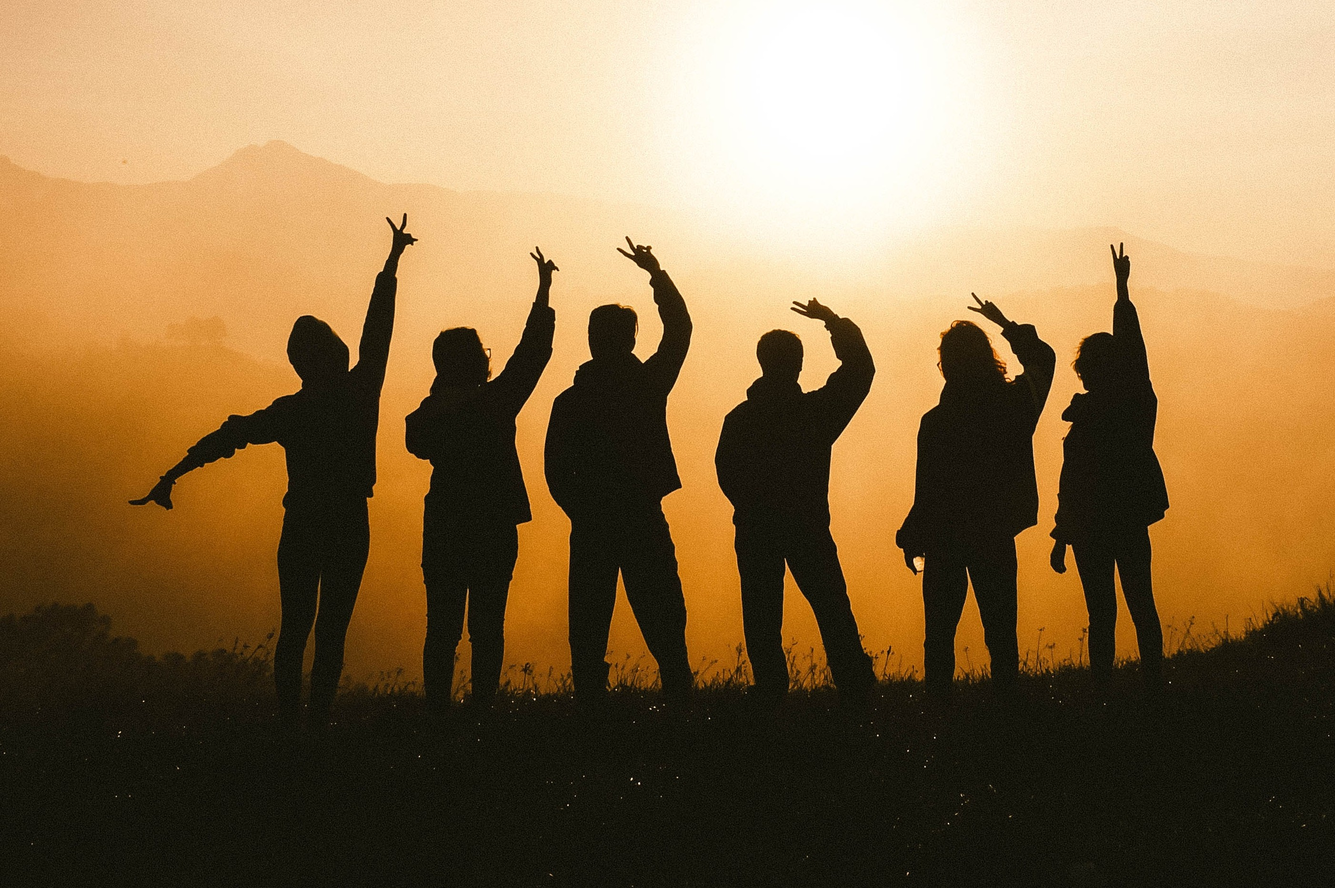
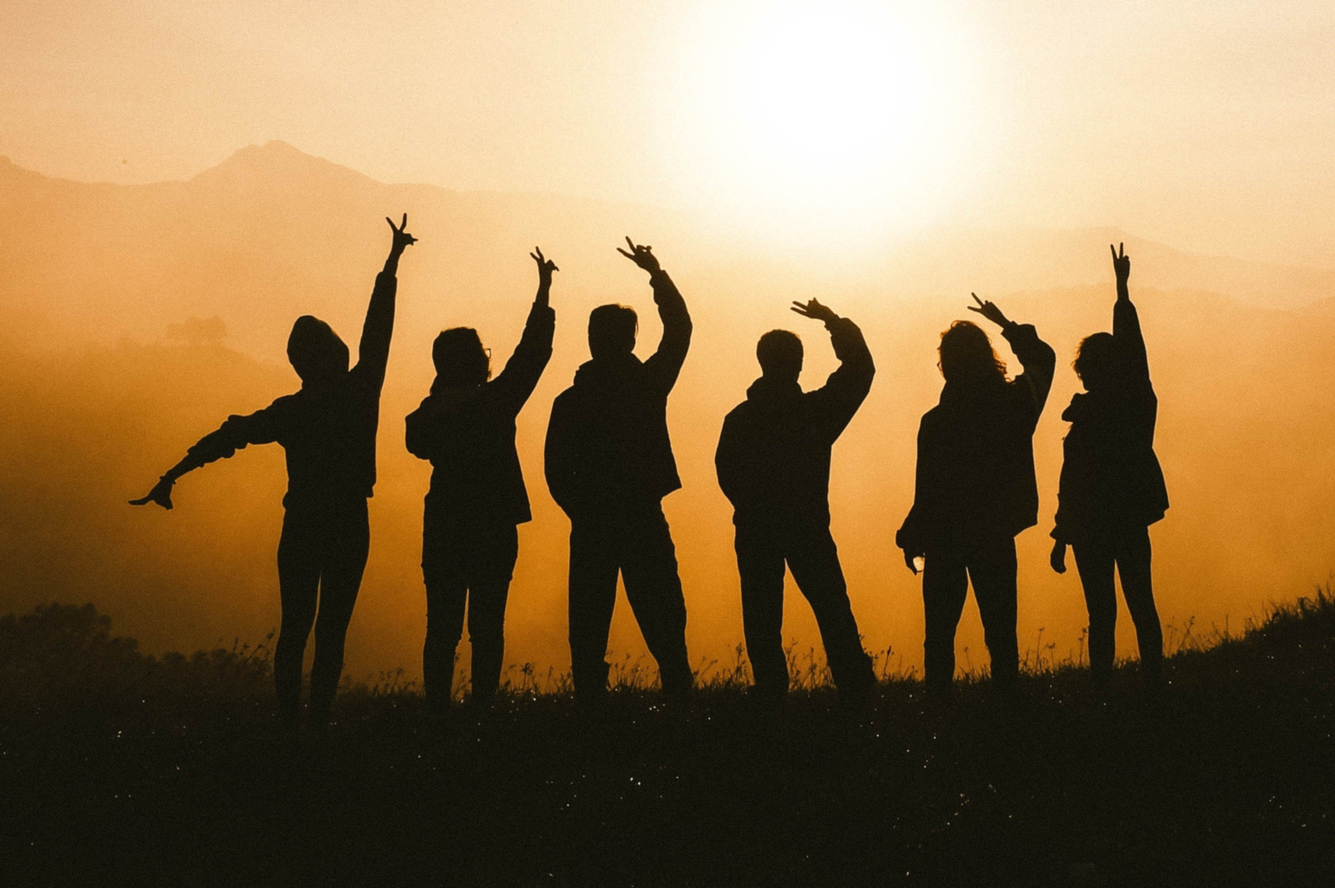
Style councils index page
Also compress some of the test stock images

diff --git a/assets/css/councils.css b/assets/css/councils.css
@@ -11,12 +11,32 @@
 #title {
     position: fixed;
     height: 80vh;
-    width: 30vw;
+    width: 20vw;
     padding-top: 10vh;
+    padding-left: 5vw;
+    padding-right: 5vw;
     transform: translateX(-30vw);
     transition: transform 1s ease-in-out;
     background: rgb(var(--base1));
     z-index: 10;
+    color: #eee;
+    display: flex;
+    flex-direction: column;
+    -ms-align-items: center;
+    align-items: center;
+    text-align: center;
+}
+
+#title h1 {
+    font-family: "Florence";
+    font-size: 60pt;
+    margin-bottom: 0px;
+    margin-top: 0px;
+}
+
+#title p {
+    font-family: "Roboto Slab";
+    font-size: 12pt;
 }
 
 #title.open {
@@ -27,7 +47,7 @@
 .council {
     margin-top: 10vh;
     margin-bottom: 10vh;
-    height: 20vw;
+    height: 45vh;
     width: auto;
     display: flex;
     align-items: center; 
@@ -42,27 +62,33 @@
 
 @keyframes slideshow {
     from { transform: translateX(0); }
-    to { transform: translateX(-90vw); }
+    /* translateX value: (-width - total margins) * 3; */
+    to { transform: translateX(calc(-135vh - 45vw)); }
 }
 
-.council:first-child {
-    margin-top: none;
+.council:nth-child(odd) {
+    animation-direction: reverse;
+}
+
+.council:nth-child(2) {
+    margin-top: 0;
 }
 
 .council:last-child {
-    margin-bottom: none;
+    margin-bottom: 0;
 }
 
 .council__slide {
-    width: 15vw;
-    height: 15vw;
+    width: 45vh;
+    height: 45vh;
     margin-left: 7.5vw;
     margin-right: 7.5vw;
     clip-path: margin-box;
     flex-shrink: 0;
-    background: #ccc;
     transition: all 0.5s ease-out;
     pointer-events: auto;
+    overflow-y: hidden;
+    transform: translate3d(0,0,0);
 }
 
 .council__slide:hover {
@@ -70,7 +96,7 @@
 }
 
 .council__title {
-    background: none;
+    background: rgba(0,0,0,0);
 }
 
 .council__title:hover {
@@ -78,8 +104,8 @@
 }
 
 .council__title .council__title--flip {
-    background: #ccc;
     transform: rotateY(0deg);
+    position: relative;
     transition: all 0.5s ease;
     transform-style: preserve-3d;
     height: 100%;
@@ -87,22 +113,55 @@
 }
 
 .council__title:hover .council__title--flip {
-    transform: rotateY(180deg);
     box-shadow: 0px 0px 60px 5px #000;
+    position: relative;
+    transform: rotateY(180deg);
 }
 
 .council__title--full {
     transform: rotateY(180deg);
     backface-visibility: hidden;
+    background: rgb(var(--base2));
+    padding-left: 10%;
+    padding-right: 10%;
+    position: absolute;
+    height: 100%;
+    width: 80%;
+    backface-visibility: hidden;
+    display: flex;
+    justify-content: center;
+    flex-direction: column;
+    align-items: center;
+    text-align: center;
+    font-size: 20pt;
+    color: #eee;
+    font-family: "Roboto Slab";
+}
+
+.council__title--full a {
+    background: rgb(var(--accent1));
+    padding: 10px;
+    color: #222;
 }
 
 .council__title--short {
+    position: absolute;
+    height: 100%;
+    width: 100%;
     backface-visibility: hidden;
+    background-image: url({{ site.baseurl }}/assets/img/leaves-square.jpg);
+    background-size: cover;
+    display: flex;
+    justify-content: center;
+    align-items: center;
+    font-size: 6vh;
+    color: #eee;
+    font-family: "Florence";
 }
 
 .council__image {
-    height: 15vw;
-    max-width: 15vw;
+    height: 100%;
+    max-width: 100%;
     overflow: hidden;
     display: flex;
     justify-content: center;
@@ -110,4 +169,48 @@
 
 .council__image img {
     height: 100%;
+}
+
+.council__slide.council__writeup {
+    background: rgb(var(--base2));
+    height: 100%;
+    display: flex;
+    justify-content: center;
+    align-items: center;
+    font-size: 12pt;
+    font-family: "Roboto Slab";
+    text-align: center;
+    overflow-y: auto;
+}
+
+@media screen and (max-width: 1000px) {
+    #title {
+        position: relative;
+        width: 90vw;
+        height: auto;
+        transform: translateX(0px);
+    }
+
+    #content {
+        width: 100vw;
+        overflow-x: hidden;
+    }
+
+    .council {
+        height: 40vh;
+        margin-top: 20vh;
+        margin-bottom: 20vh;
+    }
+
+    @keyframes slideshow {
+        from { transform: translateX(0); }
+        /* translateX value: (width + total margins) * 3; */
+        to { transform: translateX(calc(-120vh - 45vw)); }
+    }
+
+    .council__slide {
+        height: 40vh;
+        width: 40vh;
+
+    }
 }

diff --git a/councils.html b/councils.html
@@ -5,12 +5,12 @@ stylesheets:
     - councils.css
 scripts:
     - utils.js
-    - GSAP_CSSPlugin.min.js
-    - GSAP_TweenLite.min.js
     - councils.js
 ---
 
-<div id="title" >
+<div id="title" class="open">
+    <h1>Councils</h1>
+    <p>{{ site.data.paragraphs.councils_intro }}</p>
 </div>
 
 <div id="content">
@@ -31,7 +31,10 @@ scripts:
         <div class="council__slide council__title">
             <div class="council__title--flip">
                 <div class="council__title--short">{{ council.name_short }}</div>
-                <div class="council__title--full">{{ council.name }}</div>
+                <div class="council__title--full">
+                    <p>{{ council.name }}</p>
+                    <a href="{{ council.url }}">Read more</a>
+                </div>
             </div>
         </div>
 
